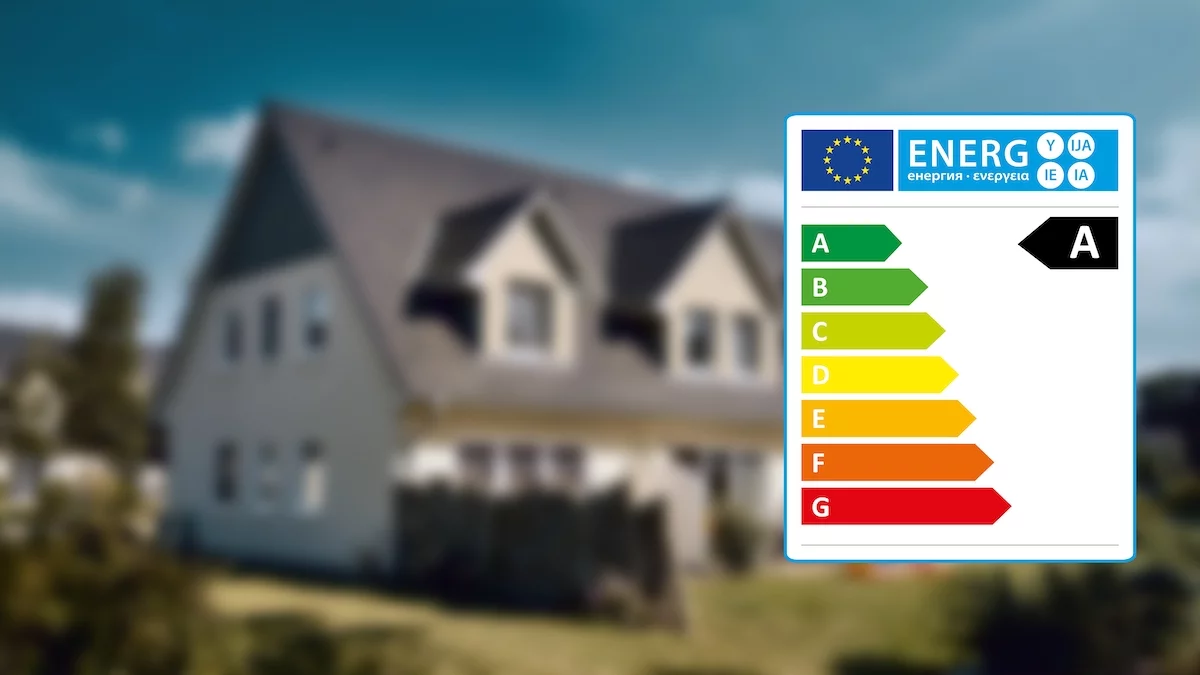
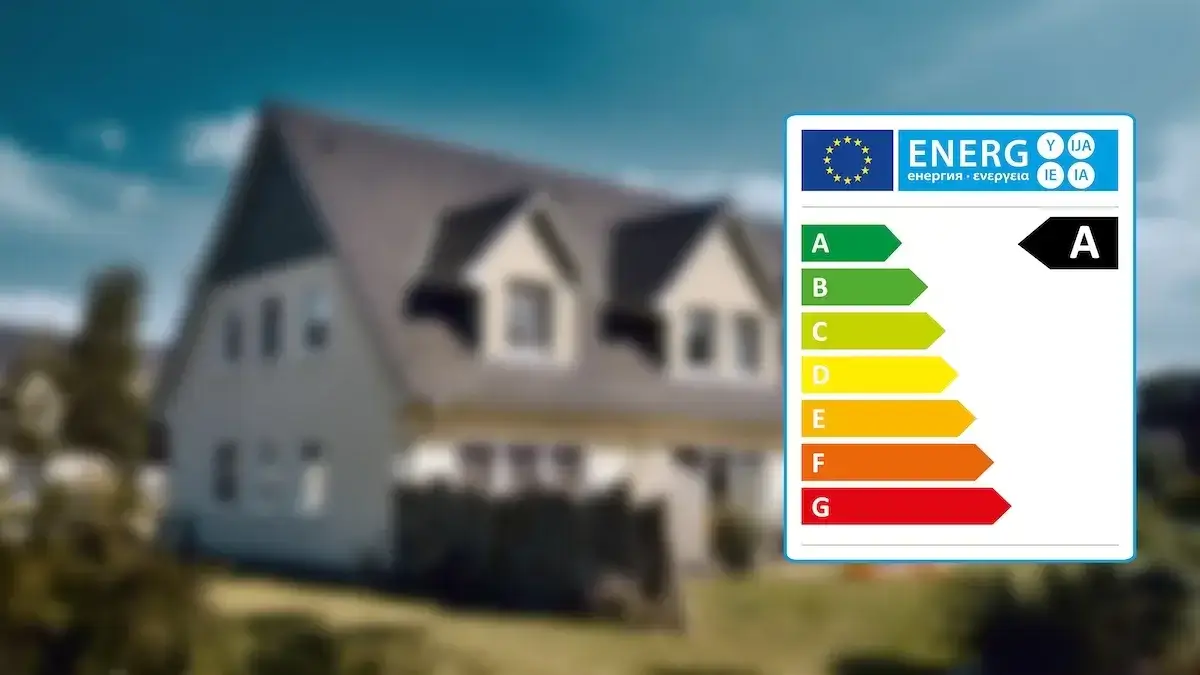
poprawki obrazkow

diff --git a/src/app/components/business/heroSlider.js b/src/app/components/business/heroSlider.js
@@ -11,14 +11,14 @@ import 'swiper/css/pagination';
 export default function HeroSlider(){
     const slides = [
         {
-            bgImage: "/images/1.jpg",
+            bgImage: "/images/1.webp",
             title: "Efektywne Pompy Ciepła",
             description: "Oszczędzaj do 75% na ogrzewaniu dzięki pompom ciepła. Profesjonalny montaż z dofinansowaniem z programu Czyste Powietrze. Ciepły dom bez wysokich rachunków!",
             buttonLink: "/oferta",
             buttonText: "Poznaj Ofertę"
         },
         {
-            bgImage: "/images/2.jpg",
+            bgImage: "/images/2.webp",
             title: "Fotowoltaika z Dotacją",
             description: "Zyskaj niezależność energetyczną dzięki instalacji fotowoltaicznej. Dostępne dotacje z programu Mój Prąd 6.0. Zmniejsz rachunki za prąd nawet o 90%!",
             buttonLink: "/dotacje",
